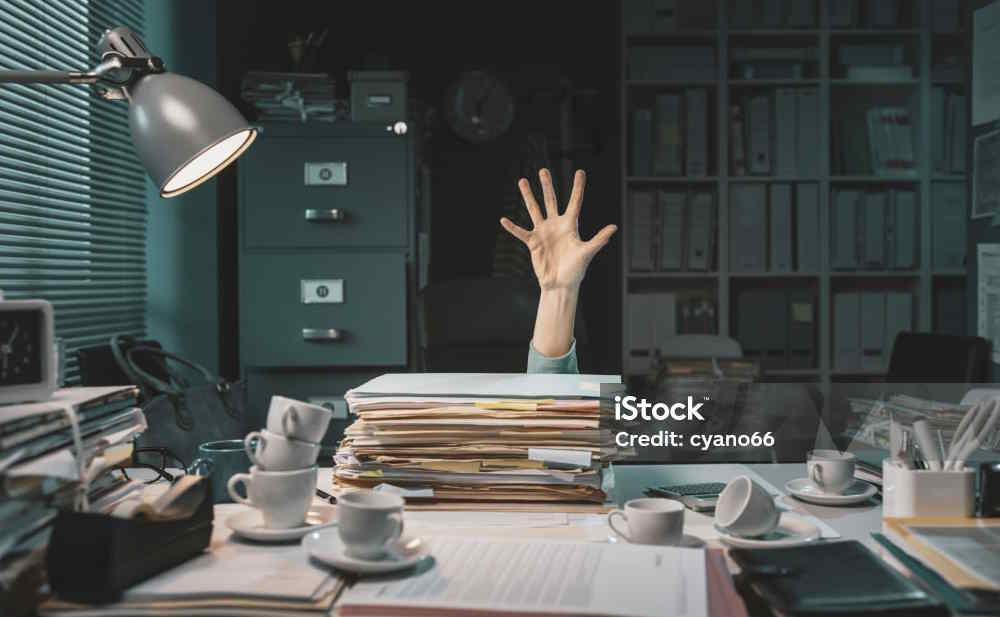
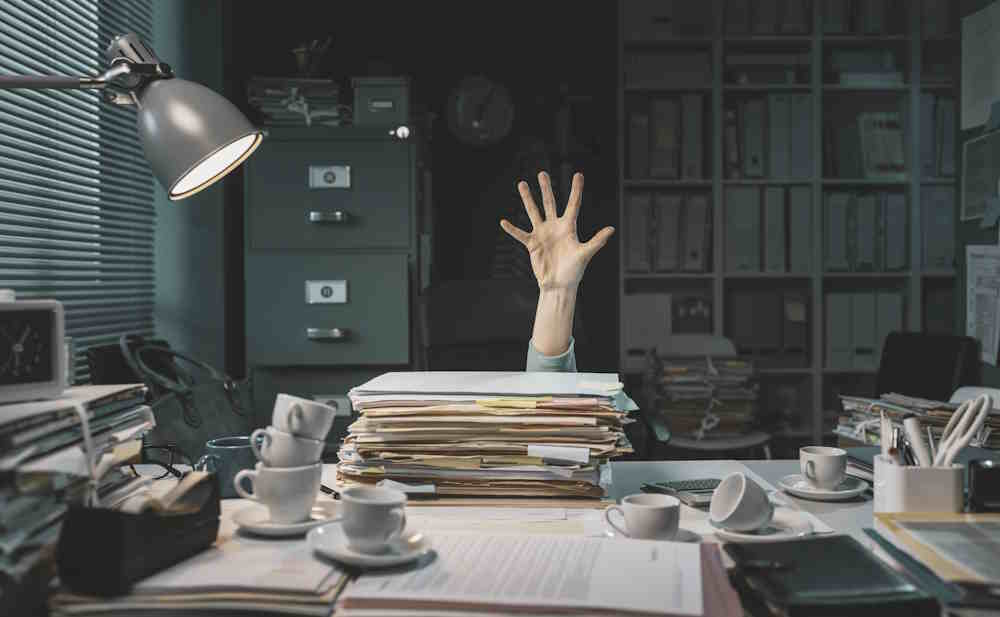
images définitives Charges dispro et Rapport 2023

diff --git a/content/news/2024-01-18-rapport2023.md b/content/news/2024-01-18-rapport2023.md
@@ -1,3 +1,7 @@
+---
+teaser: 2023-report-teaser.jpg
+auteur: Dominique Nauroy
+---
 <script src="../../../../content/news/2024-01-18-rapport2023.js"></script>
 <h2>2023&#8239;: le web progresse, les apps mobiles patinent</h2>
 <h3>Quelques sites web publics ont décroché de belles performances, mais sur le mobile la marge de progression reste importante</h3>
@@ -7,7 +11,7 @@
 </div>
 <p>Cette dynamique ne doit cependant pas faire oublier qu’une telle moyenne reste trop proche du seuil de la conformité partielle (à partir de 50%) et que l’objectif fixé par la loi est, purement et simplement, la conformité, de 100%.</p>
 <figure role="group" aria-label="Photo: iStock / anyaberkut" class="pic">
-    <img src="../../../../content/news/img/2023-report/iStock.jpg" alt="Image d'illustration représentant un questionnaire avec des cases à cocher">
+    <img src="../../../../content/news/img/2023-report/2023-report.jpg" alt="Image d'illustration représentant un questionnaire avec des cases à cocher">
     <figcaption>Photo&#8239;: iStock / anyaberkut</figcaption>
 </figure>
 <p>Les disparités constatées l’an dernier sont encore plus marquées cette année, avec cinq très bons élèves assez haut dans le classement (marchés publics, logement.lu, portail des enquêtes publiques, inspection du travail et des mines et, enfin, le nouveau site de la Chambre des députés), tous assez loin devant le numéro un de l’année 2022 (covid19.public.lu, 66%).</p>
